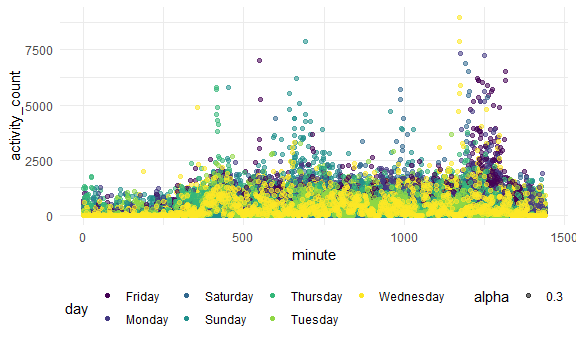
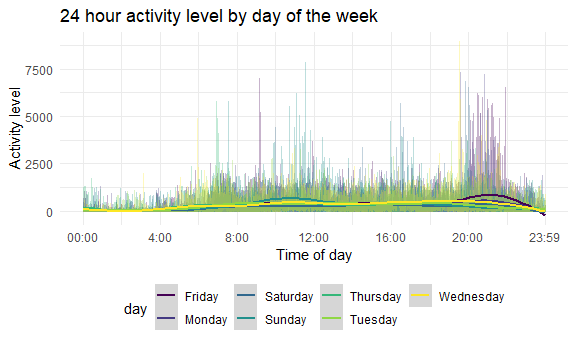
added labels to prob 2 plot, described table and plot from prob 2

diff --git a/p8105_hw3_ss5932.md b/p8105_hw3_ss5932.md
@@ -129,7 +129,7 @@ accel_df =
     day = as.factor(day),
     activity_count = as.numeric(activity_count),
     day = forcats::fct_relevel(day, c("Sunday", "Monday", "Tuesday", "Wednesday", "Thursday", "Friday", "Saturday")),
-    weekday = if_else(day %in% c("Saturday", "Sunday"), "Weekend", "Weekday"))
+    weekday_vs_weekend = if_else(day %in% c("Saturday", "Sunday"), "Weekend", "Weekday"))
 ```
 
     ## Parsed with column specification:
@@ -202,79 +202,70 @@ male with BMI 25 and congestive heart failure and is being monitored by
 the Advanced Cardiac Care Center of Columbia University Medical Center.
 After tidying and organizing the data, the resulting dataset has 50400
 observations with 6 columns and 50400 rows. The variables in the data
-include the week, day of the week, whether it was the weekday or
-weekend, minute of the day, and activity count.
+include the week, day of the week, day of the trial, whether it was the
+weekday or weekend, minute of the day, and activity count.
 
-**Part 2** - aggregate activity for total day –\> group\_by week, day
-and summarize –\> 35 days –\> week \# and day of week - trends inherent:
-more activity during certain day, etc.
+**Part 2**
 
 Find the aggregate activity level for each day and display in a table.
 
 ``` r
 accel_df %>% 
-  group_by(week, day) %>% 
+  group_by(day) %>% 
   summarize(total_activity = sum(activity_count)) %>% 
   knitr::kable(digits = 1)
 ```
 
-    ## `summarise()` regrouping output by 'week' (override with `.groups` argument)
+    ## `summarise()` ungrouping output (override with `.groups` argument)
 
-| week | day       | total\_activity |
-| ---: | :-------- | --------------: |
-|    1 | Friday    |        480542.6 |
-|    1 | Monday    |         78828.1 |
-|    1 | Saturday  |        376254.0 |
-|    1 | Sunday    |        631105.0 |
-|    1 | Thursday  |        355923.6 |
-|    1 | Tuesday   |        307094.2 |
-|    1 | Wednesday |        340115.0 |
-|    2 | Friday    |        568839.0 |
-|    2 | Monday    |        295431.0 |
-|    2 | Saturday  |        607175.0 |
-|    2 | Sunday    |        422018.0 |
-|    2 | Thursday  |        474048.0 |
-|    2 | Tuesday   |        423245.0 |
-|    2 | Wednesday |        440962.0 |
-|    3 | Friday    |        467420.0 |
-|    3 | Monday    |        685910.0 |
-|    3 | Saturday  |        382928.0 |
-|    3 | Sunday    |        467052.0 |
-|    3 | Thursday  |        371230.0 |
-|    3 | Tuesday   |        381507.0 |
-|    3 | Wednesday |        468869.0 |
-|    4 | Friday    |        154049.0 |
-|    4 | Monday    |        409450.0 |
-|    4 | Saturday  |          1440.0 |
-|    4 | Sunday    |        260617.0 |
-|    4 | Thursday  |        340291.0 |
-|    4 | Tuesday   |        319568.0 |
-|    4 | Wednesday |        434460.0 |
-|    5 | Friday    |        620860.0 |
-|    5 | Monday    |        389080.0 |
-|    5 | Saturday  |          1440.0 |
-|    5 | Sunday    |        138421.0 |
-|    5 | Thursday  |        549658.0 |
-|    5 | Tuesday   |        367824.0 |
-|    5 | Wednesday |        445366.0 |
+| day       | total\_activity |
+| :-------- | --------------: |
+| Friday    |         2291711 |
+| Monday    |         1858699 |
+| Saturday  |         1369237 |
+| Sunday    |         1919213 |
+| Thursday  |         2091151 |
+| Tuesday   |         1799238 |
+| Wednesday |         2129772 |
 
-**Part 3** - single panel plot: x = minute, y = activity count –\>
-scatterplot with geom\_line, color to indicate day of week, trends
+From this table of total activity per day of the week, we observe that
+on average, Friday has the most activity while Saturday has the least
+amount of activity.
+
+**Part 3**
 
 Make a plot depicting the time course for each day.
 
 ``` r
 accel_df %>% 
-  ggplot(aes(x = minute, y = activity_count)) +
-  geom_point(aes(color = day, alpha = 0.3))
+  group_by(day) %>% 
+  ggplot(aes(x = minute, y = activity_count, color = day)) +
+  geom_line(alpha = 0.3) +
+  stat_smooth() +
+  scale_x_continuous(
+    breaks = c(0, 240, 480, 720, 960, 1200, 1440),
+    labels = c("00:00", "4:00", "8:00", "12:00", "16:00", "20:00", "23:59")
+  ) +
+  labs(
+    title = "24 hour activity level by day of the week",
+    x = "Time of day",
+    y = "Activity level"
+  )
 ```
+
+    ## `geom_smooth()` using method = 'gam' and formula 'y ~ s(x, bs = "cs")'
 
 <img src="p8105_hw3_ss5932_files/figure-gfm/unnamed-chunk-8-1.png" width="90%" />
 
-Potential issues: - day of week by default in alphabetical order –\> use
-factors to order how we want - when pivot\_longer, need to check if
-minute is in numeric format or some other format so the plot will make
-sense when merged
+From this graph of the subject’s activity levels collected by the
+accelerometer, we can see that much of his activity levels occurred
+during the day between the waking hours of 7:00am (7:00) and 10:00pm
+(22:00). There were spurts of activity at certain times on specific
+days. For example, there are peaks of activity late Sunday mornings
+between 10:00am and 12:00pm, and Friday evenings between 8:00pm and
+10:00pm appear particularly active. There is significantly less activity
+during the late night and early morning hours, as we can presume the
+subject was sleeping.
 
 ## Problem 3
 
